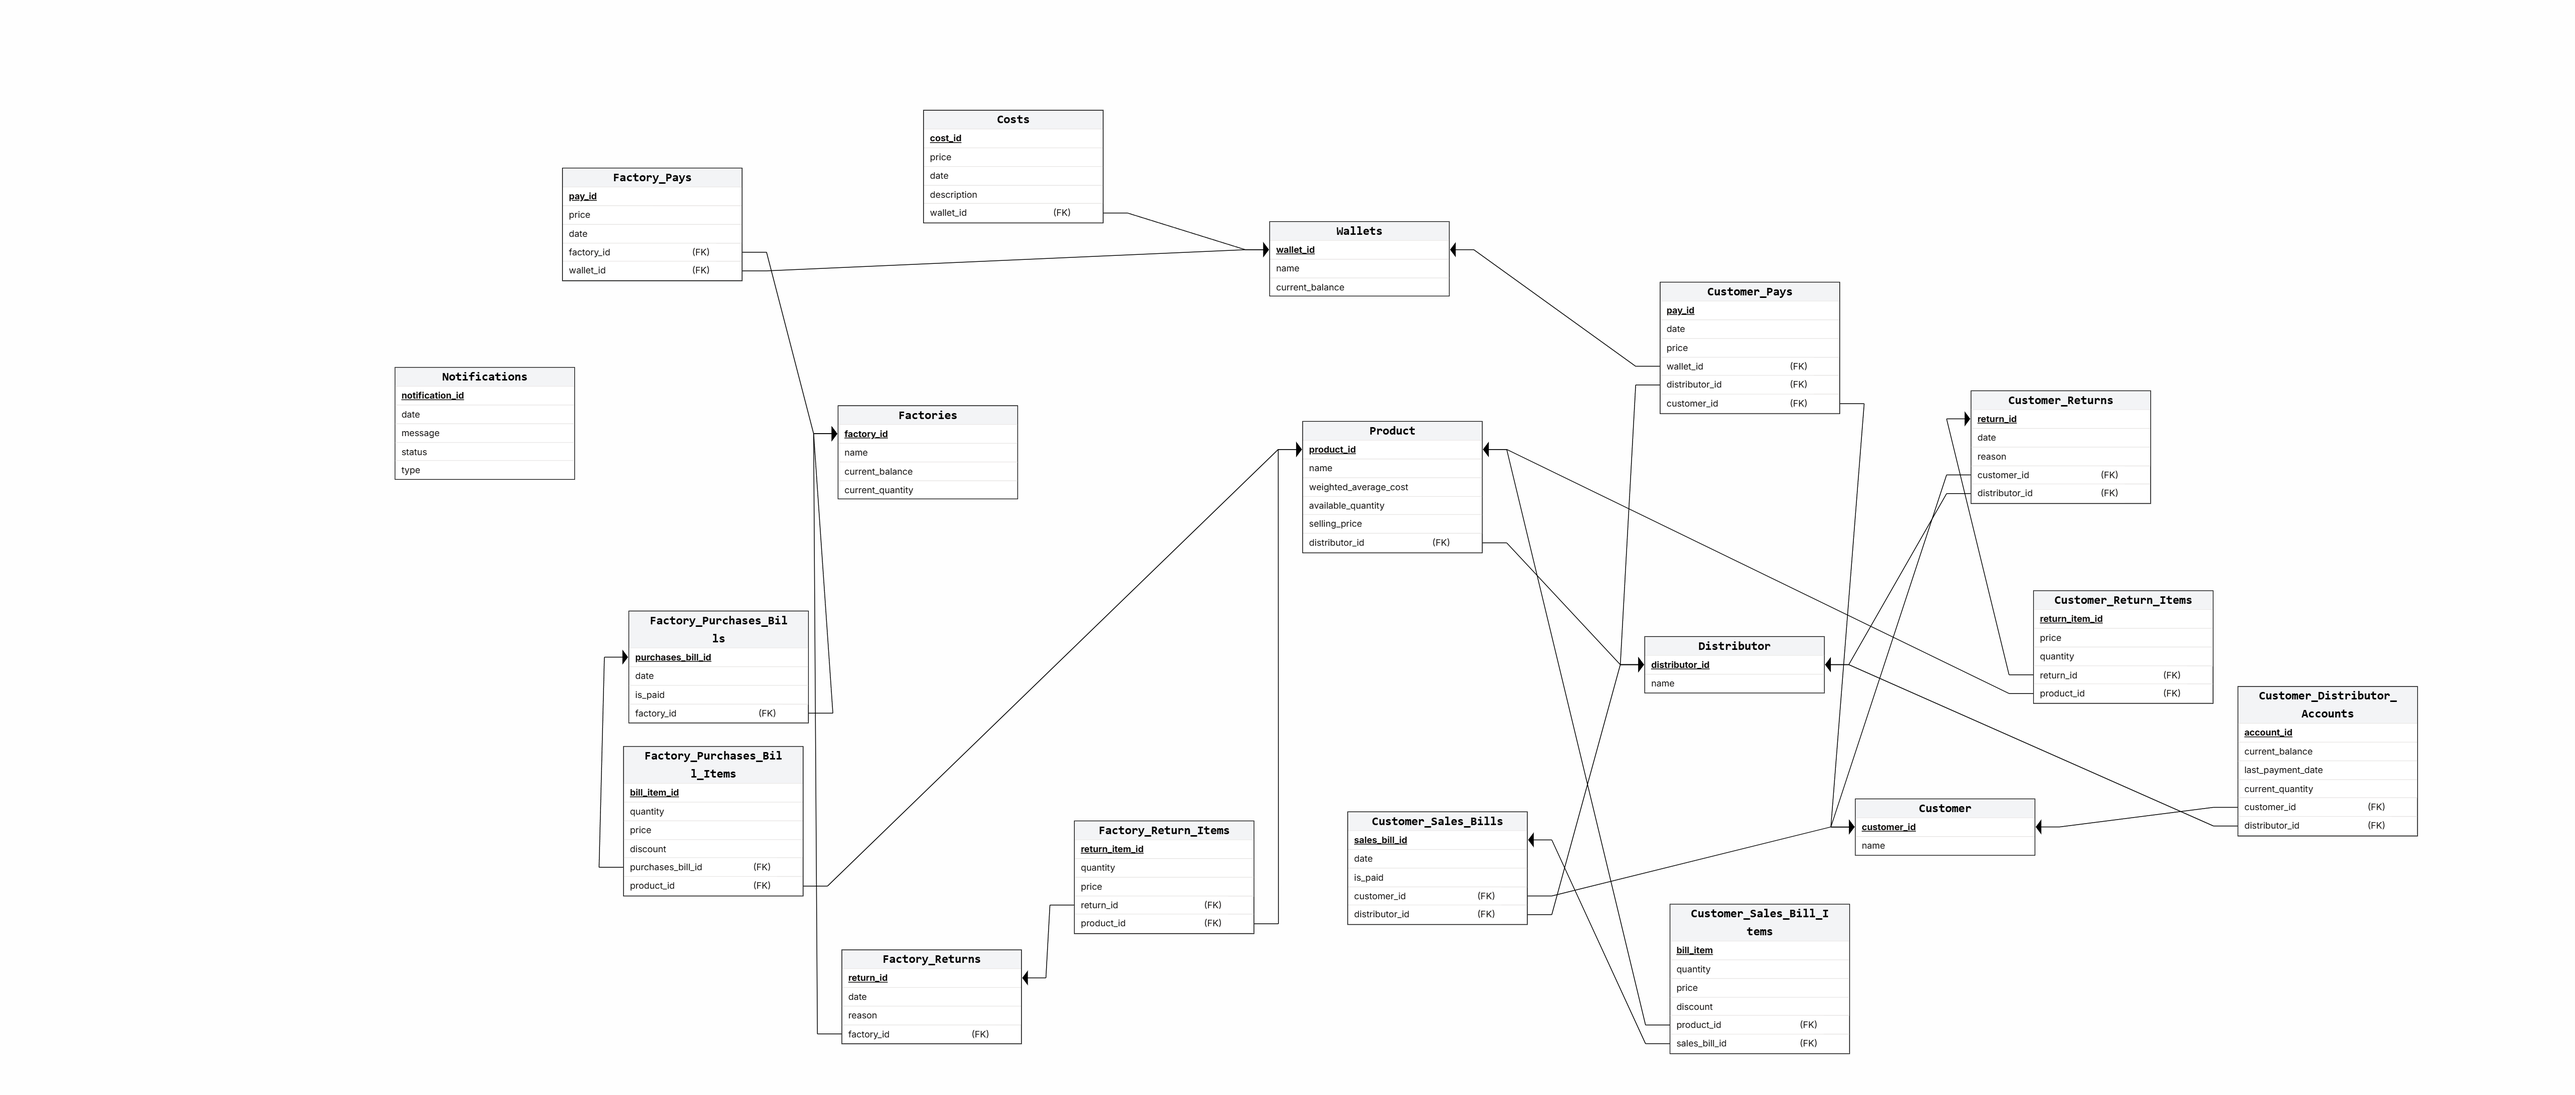
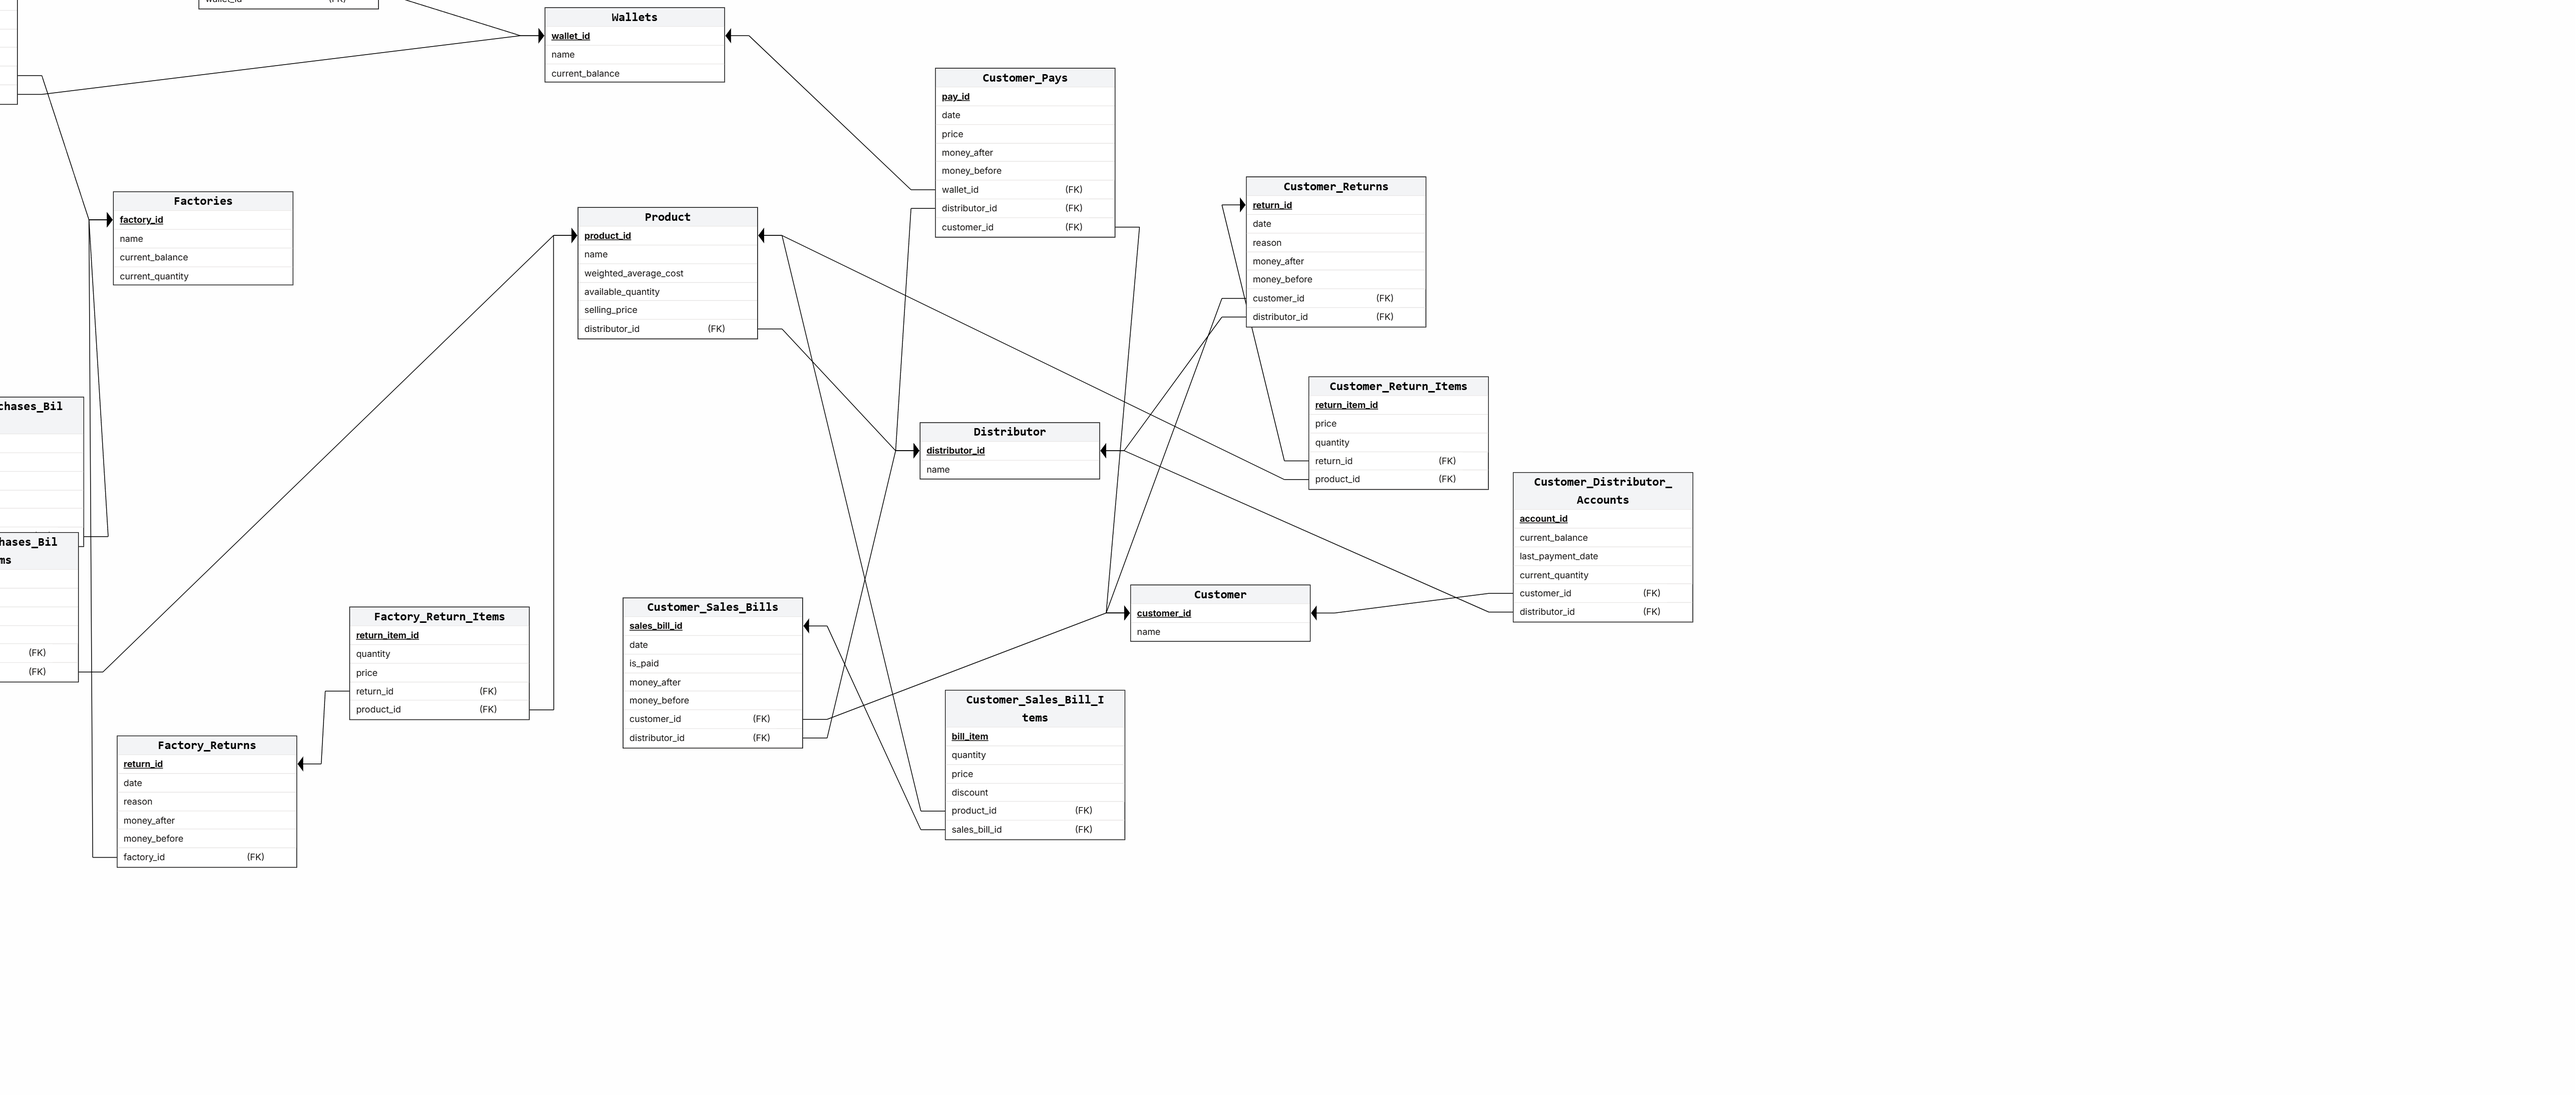
Adding the main frame structure for both factory and customer, and editing the database mapping image (because I forgot to change it at the beginning).

diff --git a/src/controller/main_controller.py b/src/controller/main_controller.py
@@ -1,8 +1,15 @@
 from view.main_view import MainView
 from model.main_model import MainModel
+from controller.Factory.factory_controller import FactoryController
+from controller.Customer.customer_controller import CustomerController
 
 class MainController:
     def __init__(self, root):
+        """connect the view and model to control the navigation between main frames
+
+        Args:
+            root (ctk.CTk): this is the root window of the application
+        """
         self.root = root
         self.model = MainModel()
         self.view = MainView(self.root)
@@ -15,6 +22,7 @@ class MainController:
         """
         for button in self.view.buttons:
             button.configure(command= lambda button_obj=button: self._menu_buttons_switching(title = button_obj.cget("text"), button = button_obj))
+        self._menu_buttons_switching(self.view.buttons[0].cget("text"),self.view.buttons[0])
 
 
     def _menu_buttons_switching(self, title, button):
@@ -26,10 +34,10 @@ class MainController:
             # add the frame of clicked button
             # append the frame to the self.view.frames
         '''
-        for button in self.view.buttons:
+        for btn in self.view.buttons:
             if title == 'الاشعارات':
                 continue
-            button.configure(fg_color='black', state='normal', cursor="hand2")
+            btn.configure(fg_color='black', state='normal', cursor="hand2")
         if title != 'الاشعارات':
             button.configure(fg_color='green', state='disabled', cursor="arrow")
             
@@ -43,6 +51,7 @@ class MainController:
             'المخزن': self.open_inventory,
             'الخزنة': self.open_safe,
             'المصاريف': self.open_extra_costs,
+            'الموزعين': self.open_suppliers,
             'الاشعارات': self.open_notifications,
             'الخروج': self.root.destroy
         }
@@ -50,15 +59,22 @@ class MainController:
         
 
     def open_factory(self):
-        pass
+        factory = FactoryController(root = self.root, db_conn = self.model.conn)
+        self.view.Frames.append(factory.view)
+
+
     def open_customer(self):
-        pass
+        customer = CustomerController(root = self.root, db_conn = self.model.conn)
+        self.view.Frames.append(customer.view)
+
+
     def open_inventory(self):
         pass
     def open_safe(self):
         pass
     def open_extra_costs(self):
         pass
+    def open_suppliers(self):
+        pass
     def open_notifications(self):
         pass
-    

diff --git a/src/controller/Customer/customer_controller.py b/src/controller/Customer/customer_controller.py
@@ -1,0 +1,60 @@
+from view.Customer.customer_view import CustomerView
+
+class CustomerController:
+    def __init__(self, root, db_conn):
+        """create the customer main frame
+
+        Args:
+            root (ctk.CTk): this is the root window of the application but contains the side bar frame
+            db_conn (sqlite3.Connection): database connection, that is the connection object to the database
+        """
+        self.root = root
+        self.db_conn = db_conn
+        self.view = CustomerView(root)
+        self._bind_events()
+    
+    
+    def _bind_events(self):
+        for button in self.view.buttons:
+            button.configure(command= lambda button_obj=button: self._menu_buttons_switching(title = button_obj.cget("text"), button = button_obj))
+        self._menu_buttons_switching(self.view.buttons[0].cget("text"),self.view.buttons[0])
+
+
+    def _menu_buttons_switching(self, title, button):
+        """handle switching between frames
+
+        Args:
+            title (str): button title
+            button (ctk.CTkButton): button object that is clicked
+        
+        Steps:
+            # change the color and disable the passed button and enable the other
+            # destroy the frames
+            # add the frame of clicked button
+            # append the frame to the self.view.frames
+        """
+        for btn in self.view.buttons:
+            btn.configure(fg_color='#206ca4', state='normal', cursor="hand2")
+        button.configure(fg_color='yellow', state='disabled', cursor="arrow")    
+        
+        for frame in self.view.Frames:
+            frame.destroy()
+        self.view.Frames = []
+        
+        customer_menu_button_map ={
+            'فاتورة': self.open_buy,
+            'دفعة': self.open_pay,
+            'مرتجع': self.open_return,
+            'حسابات المكاتب': self.open_account,
+        }
+        customer_menu_button_map[title]()
+
+
+    def open_buy(self):
+        pass
+    def open_pay(self):
+        pass
+    def open_return(self):
+        pass
+    def open_account(self):
+        pass

diff --git a/src/controller/Factory/factory_controller.py b/src/controller/Factory/factory_controller.py
@@ -1,0 +1,60 @@
+from view.Factory.factory_view import FactoryView
+
+class FactoryController:
+    def __init__(self, root, db_conn):
+        """create the factory main frame
+
+        Args:
+            root (ctk.CTk): this is the root window of the application but contains the side bar frame
+            db_conn (sqlite3.Connection): database connection, that is the connection object to the database
+        """
+        self.root = root
+        self.db_conn = db_conn
+        self.view = FactoryView(root)
+        self._bind_events()
+    
+    
+    def _bind_events(self):
+        for button in self.view.buttons:
+            button.configure(command= lambda button_obj=button: self._menu_buttons_switching(title = button_obj.cget("text"), button = button_obj))
+        self._menu_buttons_switching(self.view.buttons[0].cget("text"),self.view.buttons[0])
+
+
+    def _menu_buttons_switching(self, title, button):
+        """handle switching between frames
+
+        Args:
+            title (str): button title
+            button (ctk.CTkButton): button object that is clicked
+        
+        Steps:
+            # change the color and disable the passed button and enable the other
+            # destroy the frames
+            # add the frame of clicked button
+            # append the frame to the self.view.frames
+        """
+        for btn in self.view.buttons:
+            btn.configure(fg_color='#206ca4', state='normal', cursor="hand2")
+        button.configure(fg_color='yellow', state='disabled', cursor="arrow")    
+        
+        for frame in self.view.Frames:
+            frame.destroy()
+        self.view.Frames = []
+        
+        factory_menu_button_map ={
+            'فاتورة': self.open_buy,
+            'دفعة': self.open_pay,
+            'مرتجع': self.open_return,
+            'حسابات المصانع': self.open_account,
+        }
+        factory_menu_button_map[title]()
+
+
+    def open_buy(self):
+        pass
+    def open_pay(self):
+        pass
+    def open_return(self):
+        pass
+    def open_account(self):
+        pass

diff --git a/src/view/Customer/customer_view.py b/src/view/Customer/customer_view.py
@@ -1,0 +1,24 @@
+import customtkinter as ctk
+
+class CustomerView(ctk.CTkFrame):
+    def __init__(self, root):
+        """create the customer main frame 
+
+        Args:
+            root (ctk.CTk): this is the root window of the application but contains the side bar frame
+        """
+        super().__init__(root,)
+        self.pack(fill='both', expand=True)
+        self.buttons = []
+        self.Frames = []
+        self.create_options_buttons()
+
+
+    def create_options_buttons(self):
+        options_frame = ctk.CTkFrame(self, width=200, corner_radius=5,height=30)
+        options_frame.pack(side='top', padx=10)
+        options = ['فاتورة', 'دفعة', 'مرتجع', 'حسابات المكاتب']
+        for option in options:
+            button = ctk.CTkButton(options_frame, text=option,  font=("Arial", 16, "bold"), width=200, height=40)
+            button.pack(side= 'left',padx=10)
+            self.buttons.append(button)

diff --git a/src/view/Factory/factory_view.py b/src/view/Factory/factory_view.py
@@ -1,0 +1,24 @@
+import customtkinter as ctk
+
+class FactoryView(ctk.CTkFrame):
+    def __init__(self, root):
+        """create the factory main frame 
+
+        Args:
+            root (ctk.CTk): this is the root window of the application but contains the side bar frame
+        """
+        super().__init__(root,)
+        self.pack(fill='both', expand=True)
+        self.buttons = []
+        self.Frames = []
+        self.create_options_buttons()
+
+
+    def create_options_buttons(self):
+        options_frame = ctk.CTkFrame(self, width=200, corner_radius=5,height=30)
+        options_frame.pack(side='top', padx=10)
+        options = ['فاتورة', 'دفعة', 'مرتجع', 'حسابات المصانع']
+        for option in options:
+            button = ctk.CTkButton(options_frame, text=option,  font=("Arial", 16, "bold"), width=200, height=40)
+            button.pack(side= 'left',padx=10)
+            self.buttons.append(button)

diff --git a/src/view/main_view.py b/src/view/main_view.py
@@ -38,10 +38,9 @@ class MainView(ctk.CTkFrame):
     def create_buttons(self):
         """create buttons to navigate between main frames
         """
-        titles  = ['المصانع', 'المكاتب', 'المخزن', 'الخزنة', 'المصاريف', 'الاشعارات', 'الخروج']
+        titles  = ['المصانع', 'المكاتب', 'المخزن', 'الخزنة', 'المصاريف','الموزعين', 'الاشعارات', 'الخروج']
         for title in titles:
             button = ctk.CTkButton(self, text=title, state='normal', fg_color='black', text_color='yellow',font=ctk.CTkFont(size=20, weight='bold'),corner_radius=20, cursor="hand2", hover_color='red' ,height=50,)
             button.pack(side='top', fill='x',pady=10,padx=10)
-            print(f"button {title} created")
             self.buttons.append(button)
 
